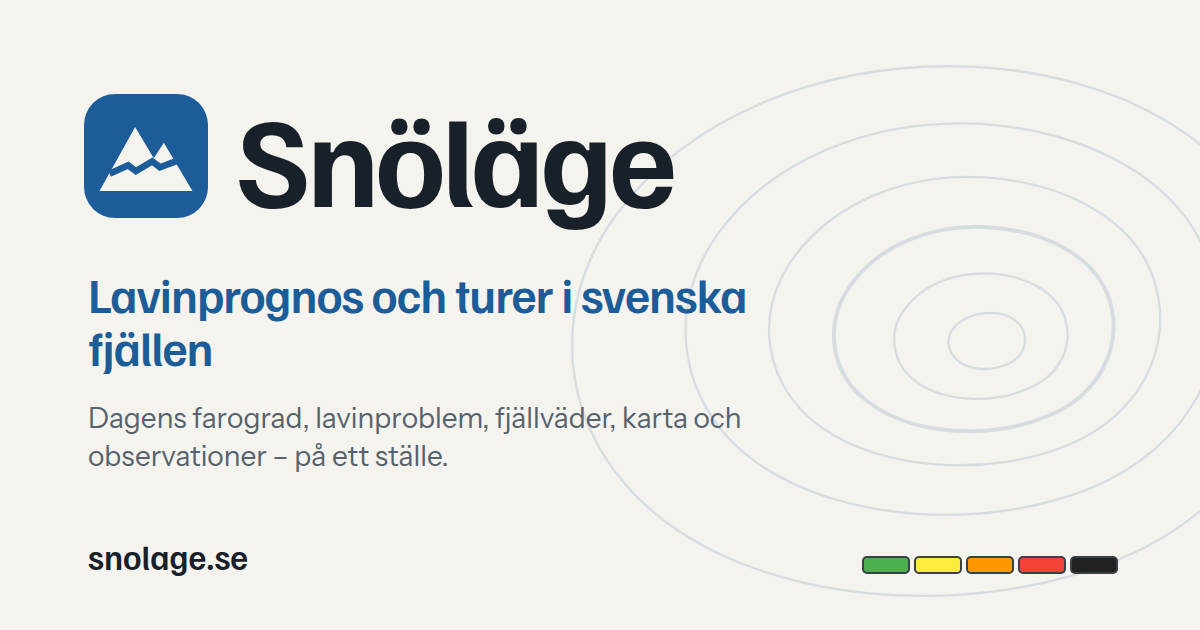
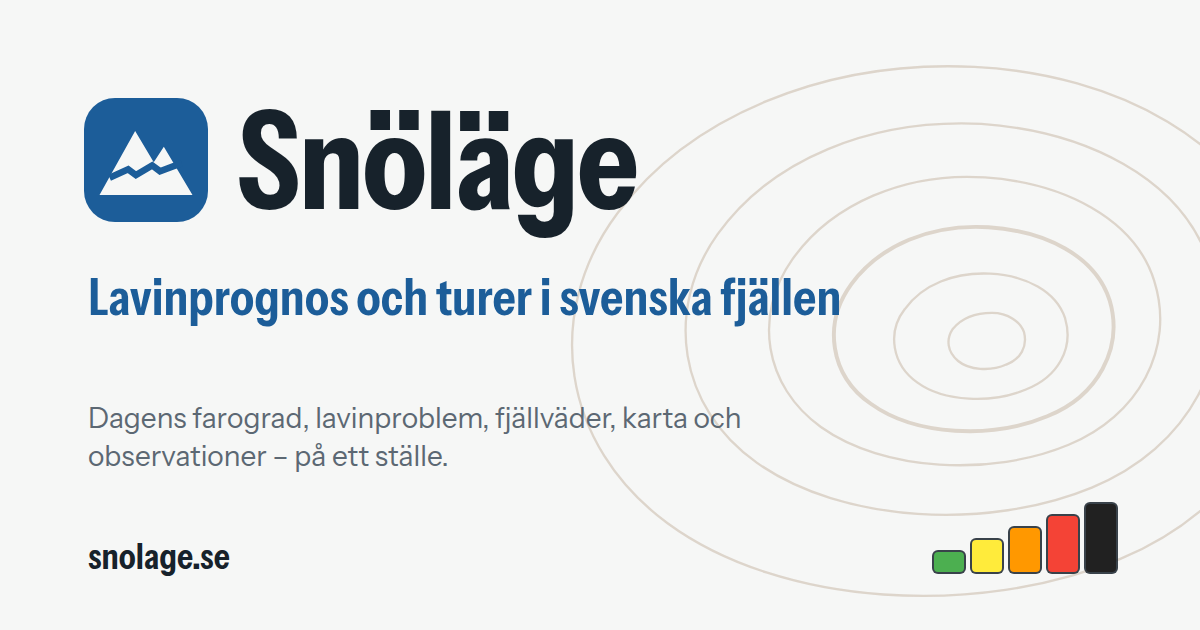
Share image and notes for the Fjällkartan design
The og-image gets the narrow headings, the new paper and ink colours,
contour-brown lines and the danger scale as rising steps.

Claude-Session: https://claude.ai/code/session_01Y5FvmwejZAyR7524LtXBhz

diff --git a/CLAUDE.md b/CLAUDE.md
@@ -1135,6 +1135,24 @@ the start, exact map point.
   icons). Icons/splash/og-image regenerated (scratchpad scripts: sharp for
   `assets/*.png` + `public/icons/*.webp` + `favicon.svg`, then
   `npm run app:icons` with the new colours; og-image rendered with Playwright).
+- **Design pass "Fjällkartan" (2026-10-13, frontend-design skill, Fabian
+  approved before/after):** colour means danger – only EAWS colours carry
+  hue; chrome is paper/ink/lake blue + brown contour lines (`--contour-line`,
+  `--divider`). Day `#f6f7f6` bg, `#17222b` ink, `#1c5d99` accent; night
+  polar-night `#0b1722`/`#112231`/`#1a2d3d`. `--signal` now = ink (`var(--text)`),
+  the old orange is retired (it competed with level 3); bell count and XP bar
+  use accent. **One family:** Instrument Sans `wdth.css` (Familjen Grotesk
+  removed); headings and numbers at `font-stretch: var(--display-stretch)`
+  (78 %), `--font-display` = body family. **Signature:** `DangerHero` at the
+  top of area pages (band in the danger colour, big narrow numeral, label,
+  `DangerStair` = the scale as five rising steps, today's filled; neutral band
+  with `forecastLabel` when no published level); the stair is only there (and
+  in the og-image) – restraint. No all-caps labels; no "A · B · C" meta
+  strings (commas; `problemWhere` → "N/NO/O, kalfjället och trädgränsen");
+  observation/tour lists are rows with contour dividers, not cards; start
+  page date sits in the lead line, the "Imorgon" label only shows with two
+  trips. og-image re-rendered (scratchpad `og/og.html`). theme-color, manifest,
+  Capacitor background `#0b1722`.
 - **Phone tab bar (2026-10-10):** ≤ 640 px (`hooks/usePhoneLayout.ts`)
   `TabBar.tsx` fixed at the bottom: Idag (also active on `/omrade/*`) ·
   Karta · Observera (raised accent button → `/observationer/snabb`) · Flöde
